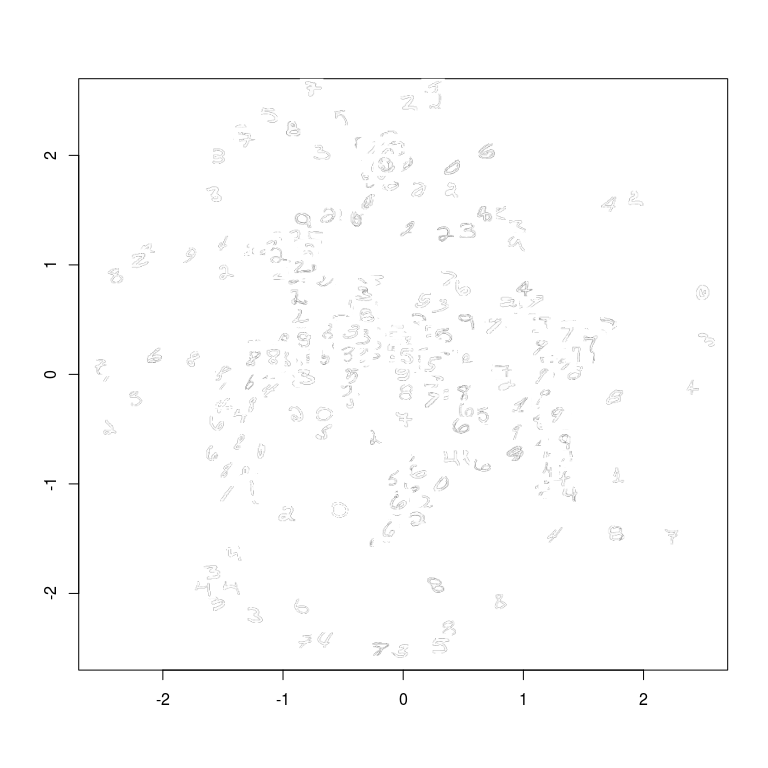
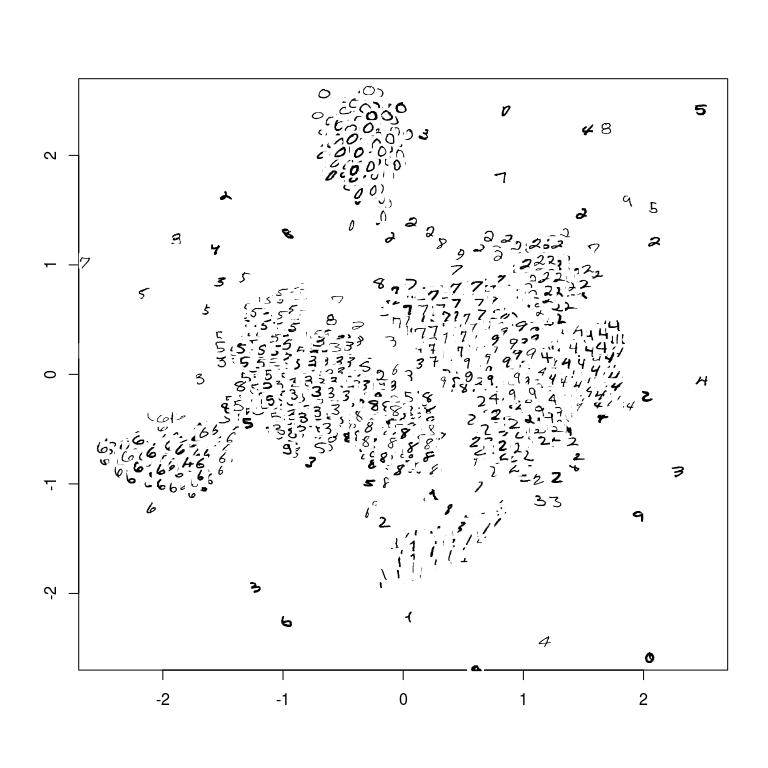
WIP - pushing bc several bugs have been fixed.

diff --git a/src/largeVis.cpp b/src/largeVis.cpp
@@ -11,6 +11,12 @@
 using namespace Rcpp;
 using namespace std;
 
+// The Euclidean distance between two vectors
+
+inline double dist(arma::vec i, arma::vec j) {
+  return sum(square(i - j));
+}
+
 /*
  * Some helper functions useful in debugging.
  */
@@ -19,10 +25,6 @@ void checkVector(const arma::vec& x,
   if (x.has_nan() || x.has_inf())
     Rcout << "\n Failure at " << label;
 };
-
-inline double dist(arma::vec i, arma::vec j) {
-  return sum(square(i - j));
-}
 
 double objective(const arma::mat& inputs, double gamma, double alpha) {
   double objective = log(1 / (1 + (alpha * dist(inputs.col(0), inputs.col(1)))));
@@ -48,22 +50,21 @@ void checkGrad(const arma::vec& x,
 
 // [[Rcpp::export]]
 arma::mat sgd(arma::mat coords,
-         const NumericVector is, // vary randomly
-         const NumericVector js, // ordered
-         const NumericVector ps, // N+1 length vector of indices to start of each row j in vector is
-         const NumericVector ws, // w{ij}
-         const double gamma,
-         const double rho,
-         const double minRho,
-         const bool useWeights,
-         const int nBatches,
-         const int M,
-         const double alpha,
-         bool verbose) {
+              const NumericVector is, // vary randomly
+              const NumericVector js, // ordered
+              const NumericVector ps, // N+1 length vector of indices to start of each row j in vector is
+              const NumericVector ws, // w{ij}
+              const double gamma,
+              const double rho,
+              const double minRho,
+              const bool useWeights,
+              const int nBatches,
+              const int M,
+              const double alpha,
+              bool verbose) {
 
   Progress progress(nBatches, verbose);
 
-  const int updateRate = 1e6;
   const int D = coords.n_rows;
   const int N = ps.size() - 1;
   const int E = ws.length();
@@ -90,7 +91,7 @@ arma::mat sgd(arma::mat coords,
   arma::vec positiveSamples = arma::randu<arma::vec>(posSampleLength);
 
   // Iterate through the edges in the positiveEdges vector
-  #pragma omp parallel for shared(coords, positiveSamples) schedule(static)
+#pragma omp parallel for shared(coords, positiveSamples) schedule(static)
   for (int eIdx=0; eIdx < nBatches; eIdx++) {
     if (progress.increment()) {
       const double posTarget = *(positiveSamples.begin() + (eIdx % posSampleLength));
@@ -104,41 +105,45 @@ arma::mat sgd(arma::mat coords,
                                               positiveEdgeWeights.end(),
                                               posTarget));
       }
-
       const int i = is[e_ij];
       const int j = js[e_ij];
 
-      arma::vec y_i = arma::vec(D);
-      arma::vec y_j = arma::vec(D);
-      for (int idx = 0; idx < D; idx++) {
-        y_i[idx] = coords(idx,i);
-        y_j[idx] = coords(idx,j);
-      }
-
       const double localRho = rho - ((rho - minRho) * eIdx / nBatches);
+
+      //if ((arma::randn<arma::vec>(1))[0] < 0) swap(i, j);
+
+      const arma::vec y_i = coords.col(i);
+      const arma::vec y_j = coords.col(j);
+      // arma::vec y_i = arma::vec(D);
+      // arma::vec y_j = arma::vec(D);
+      // for (int idx = 0; idx < D; idx++) {
+      //   y_i[idx] = coords(idx,i);
+      //   y_j[idx] = coords(idx,j);
+      // }
 
       // wij
       const double w = (useWeights) ? ws[e_ij] : 1;
 
-      const double      dist_ij   =   sqrt(dist(y_i, y_j));
-      const arma::vec   d_dist_ij =   (y_i - y_j) / dist_ij;
+      const double dist_ij = dist(y_i, y_j);
 
-      const double      p_ij      =   (alpha == 0) ?
-                                        1 / (1 +     exp( pow(dist_ij,2))):
-                                        1 / (1 + (alpha * pow(dist_ij,2)));
-      const arma::vec   d_p_ij    =   (alpha == 0) ?
-                                d_dist_ij * -2 * dist_ij * exp(pow(dist_ij,2)) / pow(1 +      exp(pow(dist_ij,2)), 2):
-                                d_dist_ij * -2 * dist_ij * alpha               / pow(1 + (alpha * pow(dist_ij,2)), 2);
+      const arma::vec d_dist_ij = (y_i - y_j) / sqrt(dist_ij);
+      double p_ij;
+      if (alpha == 0)   p_ij =   1 / (1 +      exp(dist_ij));
+      else              p_ij =   1 / (1 + (alpha * dist_ij));
+
+      arma::vec d_p_ij;
+      if (alpha == 0) d_p_ij =  d_dist_ij * -2 * dist_ij * exp(dist_ij) / pow(1 + exp(dist_ij), 2);
+      else            d_p_ij =  d_dist_ij * -2 * dist_ij * alpha        / pow(1 +    (dist_ij * alpha),2);
 
       //double o = log(p_ij);
-      const arma::vec   d_j       =   (1 / p_ij) * d_p_ij;
-      arma::vec         d_i       =   d_j;
+      const arma::vec d_j = (1 / p_ij) * d_p_ij;
 
       arma::vec samples = arma::randu<arma::vec>(M * 2);
       arma::vec::iterator targetIt = samples.begin();
       int sampleIdx = 1;
       // The indices of the nodes with edges to i
       arma::vec searchVector = i_idx.subvec(ps[i], ps[i + 1] - 1);
+      arma::vec d_i = d_j;
       int m = 0;
       while (m < M) {
         if (sampleIdx % (M * 2) == 0) samples.randu();
@@ -146,35 +151,36 @@ arma::mat sgd(arma::mat coords,
         const double target = targetIt[sampleIdx++ % (M * 2)];
         int k;
         if (useWeights) k = target * (N - 1);
-        else            k = std::distance(
-                                          negativeSampleWeights.begin(),
-                                          std::upper_bound( negativeSampleWeights.begin(),
-                                                            negativeSampleWeights.end(),
-                                                            target
-                                                          )
-                                        );
+        else k = std::distance(negativeSampleWeights.begin(),
+                               std::upper_bound(negativeSampleWeights.begin(),
+                                                negativeSampleWeights.end(),
+                                                target)
+        );
+
         if (k == i ||
             k == j ||
             sum(searchVector == k) > 0) continue;
+        const arma::vec y_k = coords.col(k);
+        // arma::vec y_k = arma::vec(D);
+        // for (int idx = 0; idx < D; idx++) y_k[idx] = coords(idx,k);
 
-        arma::vec y_k = arma::vec(D);
-        for (int idx = 0; idx < D; idx++) y_k[idx] = coords(idx,k);
+        const double dist_ik = dist(y_i, y_k);
+        if (dist_ik == 0) continue; // Duplicates
 
-        const double dist_ik =  sqrt(dist(y_i, y_k));
-        if (dist_ik == 0) continue; // check for duplicates
-        const arma::vec d_dist_ik = (y_i - y_k) / dist_ik;
+        const arma::vec d_dist_ik = (y_i - y_k) / sqrt(dist_ik);
 
-        const double p_ik = (alpha == 0) ?
-                                1 - (1 / (1 +     exp( pow(dist_ik,2)))):
-                                1 - (1 / (1 + (alpha * pow(dist_ik,2))));
-        const arma::vec d_p_ik = (alpha == 0) ?
-                                  d_dist_ik * 2 * dist_ik * exp(pow(dist_ik,2)) / pow(1 +      exp(pow(dist_ik,2)),2):
-                                  d_dist_ik * 2 * dist_ik * alpha               / pow(1 + (alpha * pow(dist_ik,2)),2);
+        double p_ik;
+        if (alpha == 0) p_ik  =  1 - (1 / (1 +      exp(dist_ik)));
+        else            p_ik  =  1 - (1 / (1 + (alpha * dist_ik)));
 
+        arma::vec d_p_ik;
+        if (alpha == 0) d_p_ik =  d_dist_ik * 2 * dist_ik * exp(dist_ik) / pow(1 +      exp(dist_ik),2);
+        else            d_p_ik =  d_dist_ik * 2 * dist_ik * alpha        / pow(1 + (alpha * dist_ik),2);
         //o += (gamma * log(p_ik));
-        const arma::vec d_k = (gamma / p_ik) * d_p_ik;
-        d_i += d_k;
 
+        const arma::vec d_k = (gamma / p_ik) * d_p_ik;
+
+        d_i += d_k;
         for (int idx = 0; idx < D; idx++) coords(idx,k) -= d_k[idx] * localRho * w;
 
         m++;
@@ -185,7 +191,7 @@ arma::mat sgd(arma::mat coords,
         coords(idx,i) +=  d_i[idx] * w * localRho;
       }
 
-      if (eIdx > 0 && eIdx % posSampleLength == 0) positiveSamples.randu();
+      if (eIdx >0 && eIdx % posSampleLength == 0) positiveSamples.randu();
     }
   }
   return coords;

diff --git a/src/neighbors.cpp b/src/neighbors.cpp
@@ -107,6 +107,7 @@ arma::mat searchTrees(const int& threshold,
   double (*distanceFunction)(const arma::vec& x_i, const arma::vec& x_j);
   if (distMethod.compare(std::string("Euclidean")) == 0) distanceFunction = relDist;
   else if (distMethod.compare(std::string("Cosine")) == 0) distanceFunction = cosDist;
+  else distanceFunction = relDist;
 
   Progress p((N * n_trees) + (N) + (N * maxIter), verbose);
 

diff --git a/README.md b/README.md
@@ -31,7 +31,7 @@ dat <- (dat / 255) - 0.5
 dat <- t(dat)
 coords <- vis(dat, check=FALSE,
                    n_tree = 50, tree_th = 700,
-                   K = 100,  max.iter = 1, gamma = 3.5, alpha = 2)
+                   K = 100,  max.iter = 1)
 ```
 
 ![](README_files/figure-markdown_github/drawmnist-1.png)
@@ -49,8 +49,8 @@ coords <- as.matrix(coords[,1:2])
 coords <- scale(coords)
 manifoldMap(coords,
     n = 5000,
-    scale = 0.007,
-    transparency = TRUE,
+    scale = 0.005,
+    transparency = FALSE,
     images = mnistimages,
     xlab="", ylab="",
     xlim = c(-2.5, 2.5), 

diff --git a/NEWS.md b/NEWS.md
@@ -9,7 +9,7 @@ max_depth parameter.
 * The alternative (alpha == 0) probabilistic function now works. 
 * Benchmarks
 * Vignette
-* Improved multi-threading performance
+* Vastly improved multi-threading performance
 
 ### largeVis 0.1.3
 
